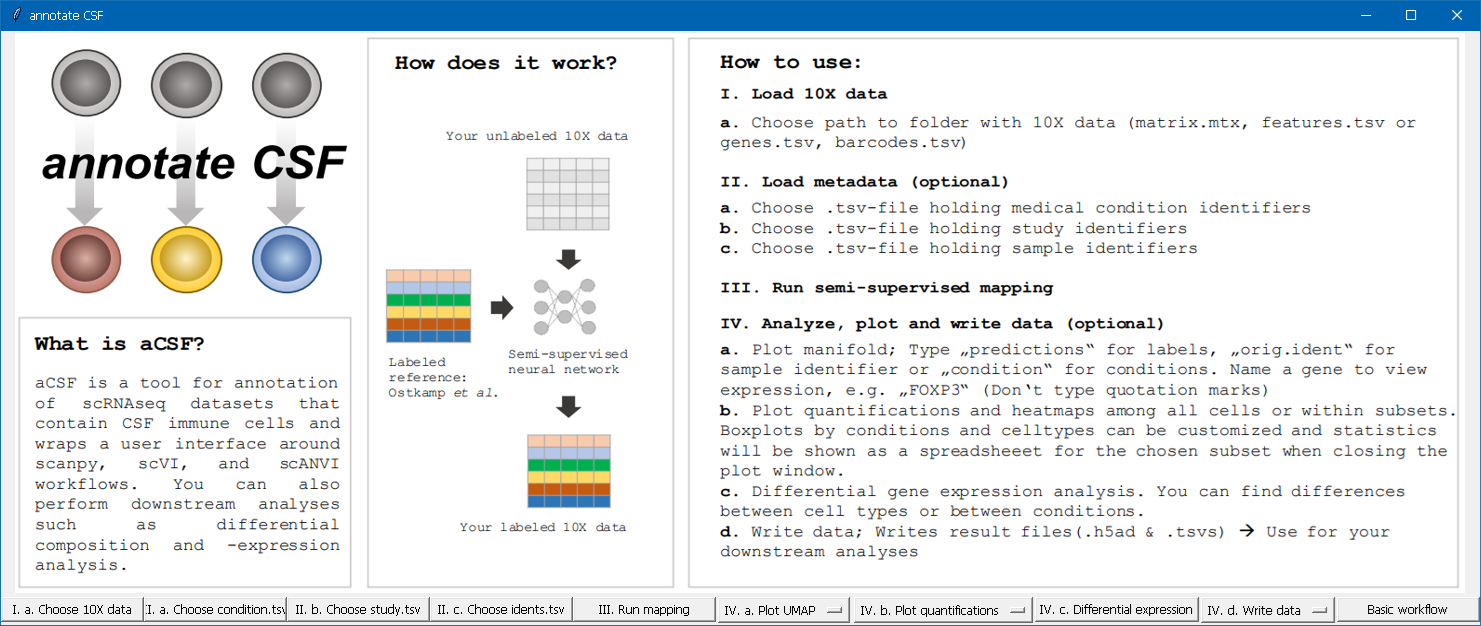
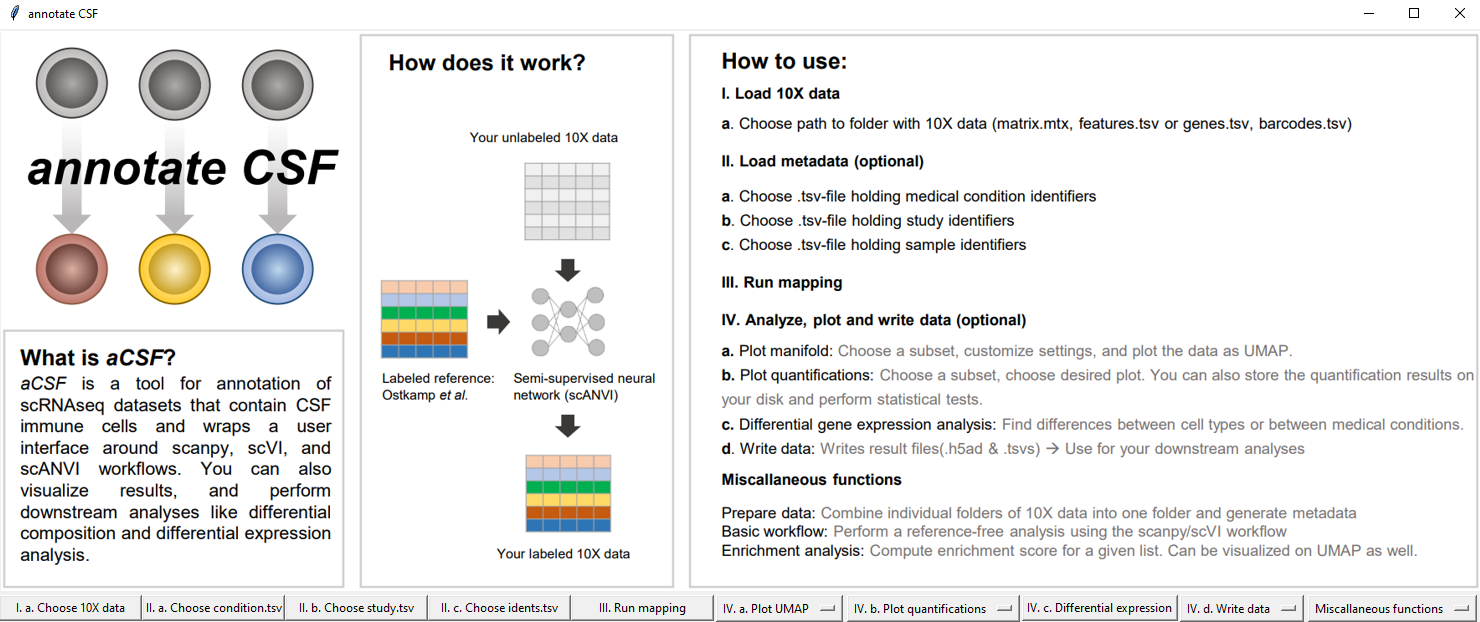
Änderungen in Testbranch

Changed region(s): [[0.0, 0.0, 1.0, 1.0]]

diff --git a/annotateCSF.py b/annotateCSF.py
@@ -932,7 +932,7 @@ def map_to_query():
         plt.show(block = False)
         doublet_thresh = simpledialog.askfloat(title = "Doublet threshold", prompt = "Type desired doublet threshold (max value)")
         plt.close()
-        adata = adata[adata.obs.doublet_score < 0.2]
+        adata = adata[adata.obs.doublet_score < doublet_tresh]
         print(colored('Doublets found!', 'cyan'))
 
     # normalization for HVG calculation
@@ -1456,21 +1456,25 @@ def dge_betw_celltypes():
     dge_threshs = Toplevel()
     # lfc min
     lfc_min = StringVar()
+    lfc_min.set("0.15")
     Message(dge_threshs, text = 'Minimum log-fold change:', width=250).pack()
     lfc_entry = Entry(dge_threshs, textvariable = lfc_min)
     lfc_entry.pack()
     # bayes min
     bayes_min = StringVar()
+    bayes_min.set("2.5")
     Message(dge_threshs, text = 'Minimum bayes factor:', width=250).pack()
     bayes_entry = Entry(dge_threshs, textvariable = bayes_min)
     bayes_entry.pack()
     # non_zeros min
     non_zero = StringVar()
+    non_zero.set("0.2")
     Message(dge_threshs, text = 'Fraction non-zero counts [0.0-1.0]:', width=250).pack()
     non_zero_entry = Entry(dge_threshs, textvariable = non_zero)
     non_zero_entry.pack()
     # max no of markers
     markers_max = StringVar()
+    markers_max.set("5")
     Message(dge_threshs, text = 'Maximum number of markers per cluster:', width=250).pack()
     markers_entry = Entry(dge_threshs, textvariable = markers_max)
     markers_entry.pack()

diff --git a/Readme.md b/Readme.md
@@ -2,7 +2,7 @@
 #### A standard workflow to annotate a scRNAseq CSF dataset
 
 ## 1. What is annotateCSF?
-AnnotateCSF is a tool for annotation of scRNAseq datasets that contain CSF immune cells and wraps a user interface around scanpy (Wolf et al., 2018), scVI-tools (Lopez et al., 2018; Gayoso et al., 2022), and scANVI (Xu et al., 2021) workflows. You can also perform downstream analyses such as differential composition and -expression analysis.
+annotateCSF or aCSF is a tool for annotation of scRNAseq datasets that contain cerebrospinal fluid (CSF) immune cells and wraps a user interface around a context-optimized workflow for scanpy (Wolf et al., 2018), scVI-tools (Lopez et al., 2018; Gayoso et al., 2022), and scANVI (Xu et al., 2021). The dataset that is used as a reference was compiled using several published CSF scRNAseq datasets and is described in detail in Ostkamp et al., Sci Transl Med (2022). It is also possible to conduct downstream exploration and analysis with UMAP plots, differential gene and -abundance analysis and so on. The aim of aCSF is to assist researchers with the analysis of their own datasets and to provide a reference atlas that is specifically suited for the annotation of CSF leukocytes unlike atlases based on peripheral blood that do not correctly reflect leukocyte heterogeneity of CSF.
 
 ## 2. Installation / Starting the software
 
@@ -68,7 +68,7 @@ As a start, you can choose the provided sample folder [10x_csf](test_data/10x_cs
 You can just choose the sample file [condition_csf.csv](test_data/condition_csf.tsv) in [test_data](test_data). The dataset consists of control-, PD (Parkinson's disease)- and LBD (Lewy body dementia) CSF samples.
 
 Metadata .tsv files for e.g. medical condition can also be exported from a Seurat object in R by typing:
-`write.table(seurat_object$condition, "your_condition.tsv"`.
+`write.table(seurat_object$condition, "your_condition.tsv")`.
 
 The file should have the following format:
 | X			|	  |
@@ -97,26 +97,29 @@ The file shall have the following format:
 | TTTGTCATCAGATAAG-1_22	| Donor_2 |
 | TTTGTCATCGGAGGTA-1_22	| Donor_2 |
 
-## 7. Run Calculation
+## 7. Map labels from reference- to query dataset
 When you have selected all necessary files, please click on *"III. Run mapping"*.
-This process may take a while for a rough analysis of the provided dataset.
+This process may take a while.
  
 ![annotateCSF Main Window](doc/thresholds.png)
 
-For basic quality control, a plot will be shown and you can select the desired QC thresholds for your analysis. For a first approach, you can just keep the proposed threshold values. Click on *"Apply thresholds"* to apply the threshold values and close the overview plots window to continue with the mapping process.
+First, you can choose whether you want to perform doublet exclusion using scrubet. If you choose so, this will be performed for each sample individually and you can then enter a meaningful threshold (0.2 - 0.3 is a common choice).  For basic quality control, you can choose to conduct QC for all samples at once or sample by sample. Next, a plot will be shown and you can select the desired QC thresholds for your analysis. Click on *"Apply thresholds"* to apply the threshold values and close the overview plots window to continue with the mapping process.
 
 (**Caution:** The threshold selection window may open behind the overview plots on some systems and/or the *"Apply thresholds"* button may be out of the window’s borders. Please adjust the window’s size in this case.)
 
-After confirmation of the thresholds, the mapping process will be performed. This may take some time and depends on your system. Note that the scVI workflows used in aCSF support CUDA for Nvidia graphic cards which accelerates the process by a lot. A progress bar is shown in the console window so you can estimate how long the process will take.
+After confirmation of the thresholds, the mapping process will be performed. This may take some time and depends on your system. Note that the scVI workflows used in aCSF support CUDA for Nvidia graphic cards which accelerates the process by a lot. Progress bars will be shown in the console window, which will finish to 100% for first two progress bars (pre-training). The third progress bar may run until 100%, but finish earlier: This is intended and is meant to avoid overfitting. 
  
-## 8. Interpretation of the output
-After the mapping process has completed, you can generate a lot of plots.
+## 8. Visualization, analysis, and interpretation of the output
+After the mapping process has completed, you can perform further analyses and visualize your data.
 
 A good point to start would be:
 1. **UMAP predictions:**
 
    Click on *"IV. a. Plot UMAP"* and select *"Do not subset"*.
-   You will be asked, for which gene you want to create a plot. Enter a gene name or *"predictions"* for generating a plot.
+   A window will open asking for specifications. In the simplest case, you select "predictions" in field I. and press plot. This generates a UMAP plot colored according to the predicted labels. If you want to add more information, e.g. gene expression, you can click the button "Add more info" (II.). Here, choose a gene symbol from the provided list or simply enter one yourself. You can also choose to plot more metadata, e.g. the medical conditions or the study identifier. You always have to make a choice and click confirm after choosing the desired information. Fields III. - VI. help you to customize the plot further, e. g. by selecting palettes or choosing the point size. There are also three further fields that are meant for subsetting your data, in case you only want to view data from a certain sample or a certain condition. Note that you can also generate UMAP plots containing only cells from a chosen lineage, e.g. from CD4 T cells. In this case, you do not click "Do not subset" in the first place, but choose the desired lineage. This option will subset the data accordingly and compute a new UMAP for which also a model will need to be run (integration willl be based on scVI or scanpy). This will take some time again, but usually provides a better view than simply using the UMAP coordinates generated from the main model. Below you can see an example for the kind of visualization that can be achieved:
+
+![annotateCSF Main Window](doc/UMAP_example.png)
+      
 
 2. **Quantification plot:**
 
@@ -125,8 +128,16 @@ A good point to start would be:
 
 ![annotateCSF Main Window](doc/plots.png)
  
-Click on *"Box plot by celltype and condition"* for a quantifications box plot.
+Click on *"Boxplot by celltype and condition"* for a quantification box plot. You will be asked whether you want to save the quantification results, you can do this if you wish to perform any further analyses on this data. Boxplots by celltype and condition can also be customized and you will be asked whether you want to perform a basic statistical analysis using linear models. The results of this analysis can also be saved as spreadsheets.
 
-Several other plots will be available. Please feel free to experiment with all the various configuration options!
+Several other plots are also available. Please feel free to experiment with all the various configuration options!
 
-If you feel, some plots are missing or have some ideas to improve the software, please let us know!
+If you feel that some plots are missing or have some ideas to improve the software, please let us know!
+
+2. **Differential expression:**
+
+To check for differentially expressed genes between cell types or between medical conditions, you can perform differential gene expression analysis. Simply choose the desired comparisons, this can also be freely customized using "Custom DGE". DGE analysis will then be performed and you will be asked to provide thresholds for plotting a heatmap.
+
+## 9. Troubleshooting
+Under construction...
+
